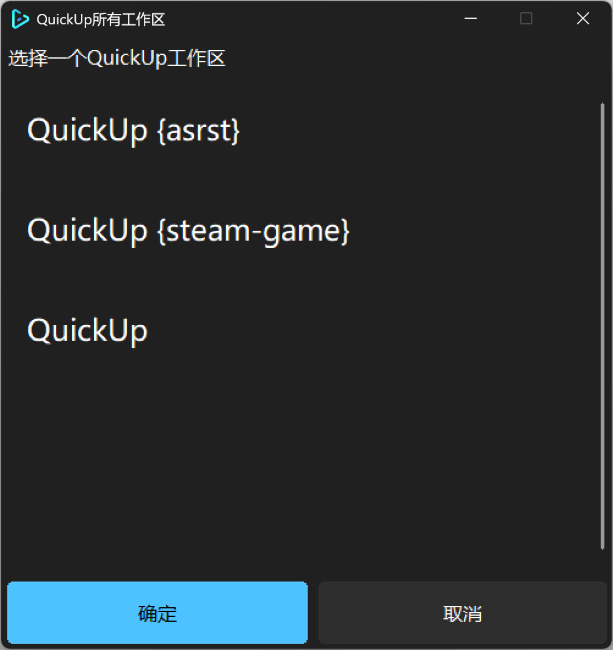
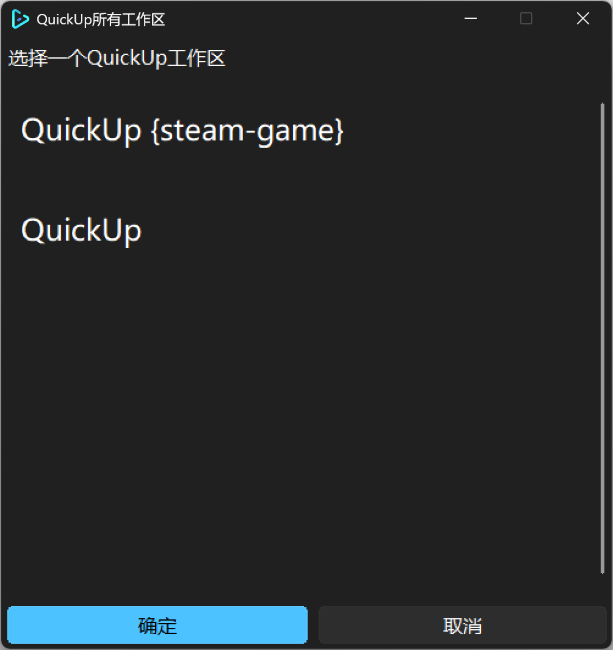
优化多工作区选择窗口

diff --git a/src/ui/select.py b/src/ui/select.py
@@ -12,19 +12,18 @@ from tinui.theme.tinuilight import TinUILight
 
 from ui.utils import set_window_dark
 import config
+import datas
 
 root = None
-ui = None
 listview = None
 theme = None
-workspaces = []
 
 def close_select(e=None):
     root.withdraw()
 
 def load_titles():
     listview.clear()
-    for title in workspaces:
+    for title in datas.titles:
         cui, _, cuixml, _ = listview.add()
         del cuixml
         cuit = theme(cui)
@@ -42,17 +41,15 @@ def select_workspace(e):
     taskindex = listview.getsel()
     if taskindex == -1:
         return
-    hwnd = workspaces[taskindex][1]
+    hwnd = datas.titles[taskindex][1]
     user32.ShowWindow(hwnd, 9)
     user32.SetForegroundWindow(hwnd)
     close_select()
 
-def show_select(titles):
-    global root, ui, theme, listview, workspaces
-    workspaces = titles
+def show_select():
+    global root, theme, listview
     if root:
         root.deiconify()
-        root.update()
         load_titles()
         return
     root = tk.Toplevel()
@@ -82,11 +79,11 @@ def show_select(titles):
 
     listviewt = uit.add_listview((0,0), num=0)
     listview = listviewt[-2]
-    ep = ExpandPanel(ui, listviewt[-1])
+    ep = ExpandPanel(ui, listviewt[-1], padding=(0,0,0,-5))
     vp.add_child(ep, weight=1)
 
     hp = HorizonPanel(ui, spacing=10)
-    vp.add_child(hp, 50)
+    vp.add_child(hp, 30)
     btn1 = uit.add_accentbutton((0,0), "确定", command=select_workspace)[-1]
     btn2 = uit.add_button2((0,0), "取消", command=close_select)[-1]
     bep1 = ExpandPanel(ui, btn1)
@@ -95,7 +92,6 @@ def show_select(titles):
     hp.add_child(bep2, weight=1)
 
     vp.update_layout(5,5,495,495)
-    root.update()
 
     root.bind('<Down>', select_next)
     root.bind('<Up>', select_prev)

diff --git a/src/main.py b/src/main.py
@@ -118,13 +118,13 @@ def close_root_check():
         close_root()
 
 def show_from_tray():
-    titles = []
+    datas.titles.clear()
     winbuf = ctypes.create_unicode_buffer(256)
     for i in range(10):
         if shl[i] != 0:
             user32.GetWindowTextW(shl[i], winbuf, 256)
-            titles.append((winbuf.value, shl[i]))
-    if len(titles) == 1:
+            datas.titles.append((winbuf.value, shl[i]))
+    if datas.titles.__len__() == 1:
         root.deiconify()
         root.attributes("-topmost", True)
         root.update()
@@ -132,7 +132,8 @@ def show_from_tray():
         root.focus_set()
         taskEntry.focus_set()
     else:
-        show_select(titles)
+        root.after(0, show_select)
+        root.update()
 
 def show_window():
     root.deiconify()

diff --git a/src/cppextend/hotkey.h b/src/cppextend/hotkey.h
@@ -23,13 +23,11 @@ void create_hotkey_listener(){
     while(running){
         std::this_thread::sleep_for(std::chrono::milliseconds(100));
         if (PeekMessageW(&msg, NULL, 0, 0, PM_REMOVE)){
-            if (msg.message == WM_HOTKEY || msg.wParam == hotkey_id){
+            if (msg.message == WM_HOTKEY && msg.wParam == hotkey_id){
                 PyGILState_STATE gstate = PyGILState_Ensure();
                 PyObject_CallObject(callback, NULL);
                 PyGILState_Release(gstate);
             }
-            TranslateMessage(&msg);
-            DispatchMessageW(&msg);
         }
     }
 }

diff --git a/src/datas.py b/src/datas.py
@@ -34,6 +34,8 @@ root_error_message = None# 主窗口错误信息
 
 workspace = None# 工作区对象
 
+titles = []# 标题栏文本与窗口句柄
+
 
 # ==========以下为操作函数==========
 

diff --git a/docs/_pages/document-en.md b/docs/_pages/document-en.md
@@ -190,7 +190,7 @@ In this page, user can see all shortcut keys that QuickUp supports.
 
 ![](/assets/images/selector.png)
 
-When there are multiple workspaces and QuickUp is awakened using a hotkey, this window will be displayed for selection.
+When there are multiple workspaces and QuickUp is awakened using a hotkey, this window will be displayed for selection. Currently, up to the first 10 workspaces are supported.
 
 ---
 

diff --git a/docs/_pages/document.md b/docs/_pages/document.md
@@ -183,7 +183,7 @@ QuickUp将在注册表`HKEY_LOCAL_MACHINE\Software\Microsoft\Windows\CurrentVers
 
 ![](/assets/images/selector.png)
 
-当存在多个工作区，并且使用热键唤醒QuickUp时，将显示此窗口进行选择。
+当存在多个工作区，并且使用热键唤醒QuickUp时，将显示此窗口进行选择。目前最多支持前10个工作区。
 
 ---
 
